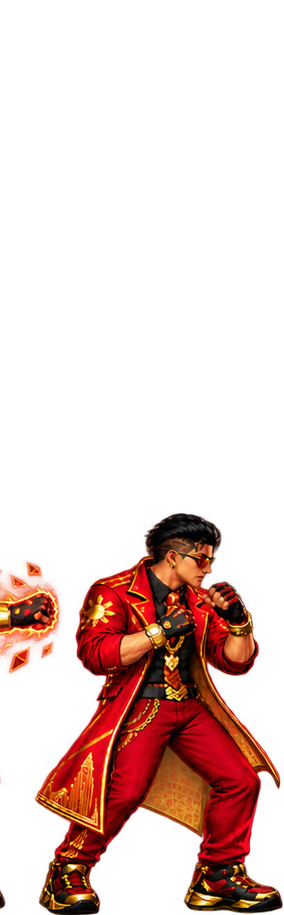
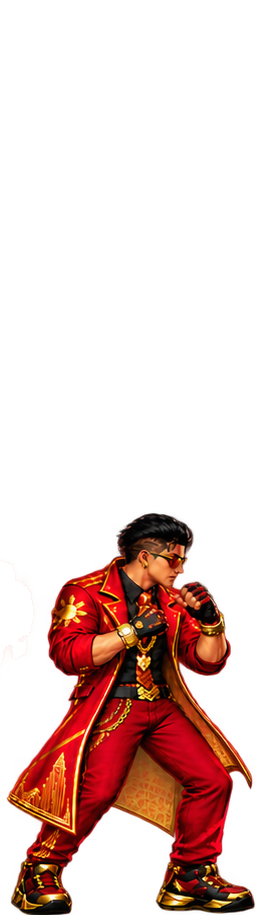
architech cropping fix
fixed cropping issues

Changed region(s): [[0.0, 0.5508, 1.0, 1.0]]

diff --git a/_tools/survey.html b/_tools/survey.html
@@ -1,0 +1,97 @@
+<!DOCTYPE html>
+<html><head><meta charset="utf-8"><title>survey</title></head>
+<body style="background:#222;color:#0f0;font-family:monospace;white-space:pre-wrap;font-size:12px">
+<div id="out">scanning...</div>
+<script>
+const params = new URLSearchParams(location.search);
+const charDir = params.get('char');
+const dirs = params.get('dirs').split(',');
+const alphaThresh = parseInt(params.get('alphaThresh') || '20');
+const minArea = parseInt(params.get('minArea') || '150');
+
+function loadImg(src) {
+  return new Promise((res, rej) => { const img = new Image(); img.onload = () => res(img); img.onerror = () => rej(new Error('load fail: '+src)); img.src = src; });
+}
+
+function analyze(imgData, w, h) {
+  const alpha = imgData.data;
+  const mask = new Uint8Array(w * h);
+  for (let i = 0; i < w * h; i++) mask[i] = alpha[i * 4 + 3] > alphaThresh ? 1 : 0;
+  const label = new Int32Array(w * h);
+  let cur = 0;
+  const islands = [];
+  const stack = [];
+  let minX=w, maxX=0, minY=h, maxY=0;
+  for (let y = 0; y < h; y++) {
+    for (let x = 0; x < w; x++) {
+      const idx = y * w + x;
+      if (mask[idx] && !label[idx]) {
+        cur++;
+        stack.length = 0;
+        stack.push(idx);
+        label[idx] = cur;
+        let area = 0, iMinX=x, iMaxX=x, iMinY=y, iMaxY=y;
+        while (stack.length) {
+          const ci = stack.pop();
+          const cy = (ci / w) | 0, cx = ci % w;
+          area++;
+          if (cx < iMinX) iMinX = cx; if (cx > iMaxX) iMaxX = cx;
+          if (cy < iMinY) iMinY = cy; if (cy > iMaxY) iMaxY = cy;
+          for (let dy = -1; dy <= 1; dy++) for (let dx = -1; dx <= 1; dx++) {
+            if (!dx && !dy) continue;
+            const nx = cx + dx, ny = cy + dy;
+            if (nx >= 0 && nx < w && ny >= 0 && ny < h) {
+              const ni = ny * w + nx;
+              if (mask[ni] && !label[ni]) { label[ni] = cur; stack.push(ni); }
+            }
+          }
+        }
+        if (area >= minArea) {
+          islands.push({ area, minX: iMinX, maxX: iMaxX, minY: iMinY, maxY: iMaxY });
+          if (iMinX < minX) minX = iMinX; if (iMaxX > maxX) maxX = iMaxX;
+          if (iMinY < minY) minY = iMinY; if (iMaxY > maxY) maxY = iMaxY;
+        }
+      }
+    }
+  }
+  islands.sort((a,b) => b.area - a.area);
+  return { islands, minX, maxX, minY, maxY };
+}
+
+async function run() {
+  const lines = [];
+  for (const dir of dirs) {
+    const dirPath = `${charDir}/${dir}`;
+    let i = 0;
+    const frameLines = [];
+    while (true) {
+      const src = `${dirPath}/${i}.webp?t=${Date.now()}`;
+      let img;
+      try { img = await loadImg(src); } catch (e) { break; }
+      const c = document.createElement('canvas');
+      c.width = img.width; c.height = img.height;
+      const ctx = c.getContext('2d');
+      ctx.drawImage(img, 0, 0);
+      const data = ctx.getImageData(0, 0, img.width, img.height);
+      const { islands, minX, maxX, minY, maxY } = analyze(data, img.width, img.height);
+      const contentW = maxX - minX, contentH = maxY - minY;
+      const fracH = (contentH / img.height).toFixed(3);
+      const fracW = (contentW / img.width).toFixed(3);
+      const touchesEdge = (minX <= 2 || maxX >= img.width-3) ? ' [TOUCHES-X-EDGE]' : '';
+      let flag = '';
+      if (islands.length > 1) {
+        const secondary = islands.slice(1).reduce((s,isl)=>s+isl.area,0);
+        flag = ` [${islands.length} ISLANDS, secondary area=${secondary}]`;
+      }
+      frameLines.push(`  ${i}: canvas=${img.width}x${img.height} bbox=[${minX},${minY},${maxX},${maxY}] fracH=${fracH} fracW=${fracW}${touchesEdge}${flag}`);
+      i++;
+    }
+    lines.push(`${dir} (${i} frames):`);
+    lines.push(...frameLines);
+    document.getElementById('out').textContent = lines.join('\n');
+  }
+  document.getElementById('out').textContent = lines.join('\n') + '\n\nDONE';
+}
+run();
+</script>
+</body></html>

diff --git a/_tools/fragment_fix.html b/_tools/fragment_fix.html
@@ -1,0 +1,40 @@
+<!DOCTYPE html>
+<html><head><meta charset="utf-8"><title>fragment_fix</title></head>
+<body style="background:#222;color:#0f0;font-family:monospace;white-space:pre-wrap;font-size:12px">
+<div id="out">loading...</div>
+<script>
+const params = new URLSearchParams(location.search);
+const src = params.get('src');
+const boxes = params.get('boxes').split(';').map(b => b.split(',').map(Number));
+const pad = parseInt(params.get('pad') || '0');
+const save = params.get('save') || src;
+
+function loadImg(src) {
+  return new Promise((res, rej) => { const img = new Image(); img.onload = () => res(img); img.onerror = rej; img.src = src; });
+}
+
+async function run() {
+  const img = await loadImg(src);
+  const c = document.createElement('canvas');
+  c.width = img.width; c.height = img.height;
+  const ctx = c.getContext('2d');
+  ctx.drawImage(img, 0, 0);
+  const data = ctx.getImageData(0, 0, img.width, img.height);
+  const d = data.data;
+  for (const [bx0, by0, bx1, by1] of boxes) {
+    const x0 = Math.max(0, bx0 - pad), y0 = Math.max(0, by0 - pad);
+    const x1 = Math.min(img.width, bx1 + pad), y1 = Math.min(img.height, by1 + pad);
+    for (let y = y0; y < y1; y++) for (let x = x0; x < x1; x++) {
+      const i = (y * img.width + x) * 4;
+      d[i] = d[i+1] = d[i+2] = d[i+3] = 0;
+    }
+  }
+  ctx.putImageData(data, 0, 0);
+  const blob = await new Promise(res => c.toBlob(res, 'image/webp', 1.0));
+  const resp = await fetch('/save?path=' + encodeURIComponent(save), { method: 'POST', body: blob });
+  const text = await resp.text();
+  document.getElementById('out').textContent = `erased ${boxes.length} box(es) from ${src} -> ${save} :: ${resp.status} ${text}`;
+}
+run();
+</script>
+</body></html>

diff --git a/_tools/frame_grid.html b/_tools/frame_grid.html
@@ -1,0 +1,39 @@
+<!DOCTYPE html>
+<html><head><meta charset="utf-8"><title>frame_grid</title></head>
+<body style="background:#333;margin:0">
+<div id="out" style="color:#0f0;font-family:monospace;font-size:11px;white-space:pre-wrap"></div>
+<canvas id="c" style="background:repeating-conic-gradient(#666 0% 25%, #999 0% 50%) 0 0/20px 20px;display:block"></canvas>
+<script>
+const params = new URLSearchParams(location.search);
+const dir = params.get('dir');
+const count = parseInt(params.get('count'));
+const cols = parseInt(params.get('cols') || '6');
+const cellH = parseInt(params.get('cellH') || '260');
+
+function loadImg(src) {
+  return new Promise((res, rej) => { const img = new Image(); img.onload = () => res(img); img.onerror = () => rej(new Error(src)); img.src = src; });
+}
+
+async function run() {
+  const imgs = [];
+  for (let i = 0; i < count; i++) imgs.push(await loadImg(`${dir}/${i}.webp?t=${Date.now()}`));
+  const rows = Math.ceil(count / cols);
+  const cellW = 220;
+  const canvas = document.getElementById('c');
+  canvas.width = cols * cellW; canvas.height = rows * (cellH + 20);
+  const ctx = canvas.getContext('2d');
+  for (let i = 0; i < imgs.length; i++) {
+    const img = imgs[i];
+    const col = i % cols, row = (i / cols) | 0;
+    const x = col * cellW, y = row * (cellH + 20);
+    const drawH = cellH - 10;
+    const drawW = drawH * (img.width / img.height);
+    ctx.strokeStyle = '#0f0'; ctx.strokeRect(x, y, cellW, cellH);
+    ctx.drawImage(img, x + 5, y + 5, drawW, drawH);
+    ctx.fillStyle = '#0f0'; ctx.font = '12px monospace';
+    ctx.fillText(`${i}: ${img.width}x${img.height}`, x + 5, y + cellH + 14);
+  }
+}
+run();
+</script>
+</body></html>

diff --git a/_tools/batch_pad.html b/_tools/batch_pad.html
@@ -1,0 +1,38 @@
+<!DOCTYPE html>
+<html><head><meta charset="utf-8"><title>batch_pad</title></head>
+<body style="background:#222;color:#0f0;font-family:monospace;white-space:pre-wrap;font-size:12px">
+<div id="out">loading...</div>
+<script>
+const params = new URLSearchParams(location.search);
+const jobs = params.get('jobs').split(';').map(j => {
+  const [src, newH, save] = j.split('|');
+  return { src, newH: parseInt(newH), save };
+});
+
+function loadImg(src) {
+  return new Promise((res, rej) => { const img = new Image(); img.onload = () => res(img); img.onerror = rej; img.src = src; });
+}
+
+async function run() {
+  const lines = [];
+  for (const job of jobs) {
+    try {
+      const img = await loadImg(job.src);
+      const padTop = job.newH - img.height;
+      const c = document.createElement('canvas');
+      c.width = img.width; c.height = job.newH;
+      const ctx = c.getContext('2d');
+      ctx.drawImage(img, 0, padTop);
+      const blob = await new Promise(res => c.toBlob(res, 'image/webp', 1.0));
+      const resp = await fetch('/save?path=' + encodeURIComponent(job.save), { method: 'POST', body: blob });
+      const text = await resp.text();
+      lines.push(`${job.save}: padTop=${padTop} newSize=${c.width}x${c.height} :: ${resp.status} ${text}`);
+    } catch (e) {
+      lines.push(`${job.save}: ERROR ${e}`);
+    }
+    document.getElementById('out').textContent = lines.join('\n');
+  }
+}
+run();
+</script>
+</body></html>

diff --git a/_tools/compare2.html b/_tools/compare2.html
@@ -1,0 +1,29 @@
+<!DOCTYPE html>
+<html><head><meta charset="utf-8"><title>compare2</title></head>
+<body style="background:#333;margin:0">
+<canvas id="c" width="900" height="360" style="background:#555;display:block"></canvas>
+<script>
+const params = new URLSearchParams(location.search);
+const srcs = params.get('srcs').split(',');
+const H = parseInt(params.get('H') || '300');
+const floorY = H + 40;
+function loadImg(src) {
+  return new Promise((res) => { const img = new Image(); img.onload = () => res(img); img.src = src; });
+}
+async function run() {
+  const canvas = document.getElementById('c');
+  canvas.height = floorY + 20;
+  canvas.width = Math.max(900, srcs.length * 180);
+  const ctx = canvas.getContext('2d');
+  for (let n = 0; n < srcs.length; n++) {
+    const img = await loadImg(srcs[n] + '?t=' + Date.now());
+    const drawW = H * (img.width / img.height);
+    const x = n * 180;
+    ctx.drawImage(img, x, floorY - H, drawW, H);
+    ctx.strokeStyle = 'lime';
+    ctx.beginPath(); ctx.moveTo(x, floorY); ctx.lineTo(x + 180, floorY); ctx.stroke();
+  }
+}
+run();
+</script>
+</body></html>

diff --git a/js/game.js b/js/game.js
@@ -188,7 +188,11 @@ function drawDifficultySelect() {
   ctx.fillText('press 1, 2, or 3', canvas.width / 2, 400);
 }
 
-const FRAME_MS = 1000 / 55;
+// Slowed from 55fps so attacks are easier to read -- every velocity/state-timer
+// constant in the game is expressed in pixels/ticks, not real time, so lowering
+// the tick rate slows the whole game uniformly without touching any of that.
+// (42 was tried and felt too slow; 48 splits the difference with the original 55.)
+const FRAME_MS = 1000 / 48;
 function scheduleNext() { setTimeout(loop, FRAME_MS); }
 
 function loop() {
